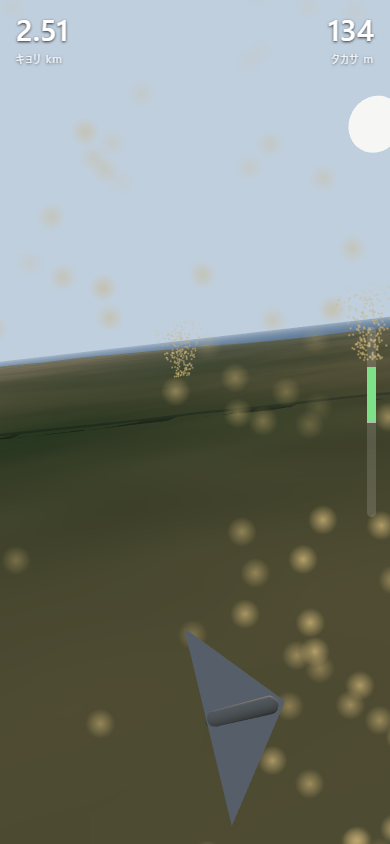
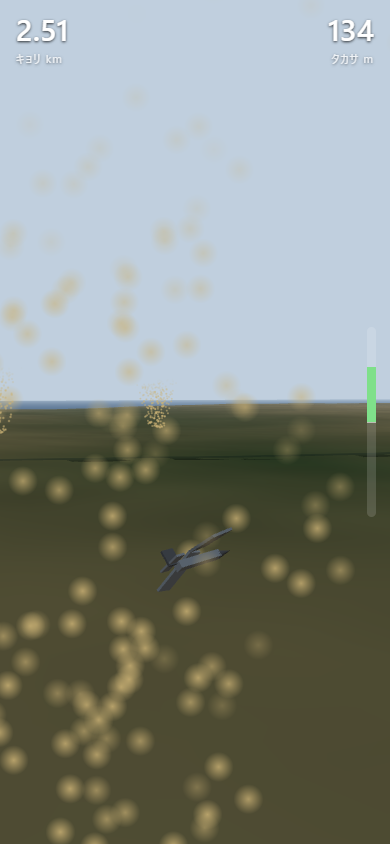
カメラをスタート画面で選べるようにし、「少し傾く」を半分の傾きにした
所長の試走: 水平キープ・見下ろしは酔わない / 少し傾く(14度)は酔うがクセは面白い。

- 少し傾く: roll 0.3 -> 0.15。地平線の傾き 14 -> 7度、傾く速さ 17 -> 9度/秒
- スタート画面に「水平キープ / 見下ろし / 少し傾く」。選んだものは次回も使う(URLの ?cam= が優先)
- 調整用に ?roll= で傾きの強さだけ上書きできる
- tools/check-cam-picker.mjs: スマホの本物のタッチで、選択・記憶・URL優先・開始まで確認

diff --git a/src/main.js b/src/main.js
@@ -6,7 +6,14 @@ import { Vario } from './audio.js';
 const q = new URLSearchParams(location.search);
 const SEED = Number(q.get('seed') ?? Math.floor(Math.random() * 9999));
 const HARNESS = q.has('harness');          // 検査用: rAFを止めて手でコマを進める
-const CAM_KEY = CAMS[q.get('cam')] ? q.get('cam') : 'a';
+const CAM_STORE = 'glide.cam';
+let saved = null;
+try { saved = localStorage.getItem(CAM_STORE); } catch (e) { /* 保存できない環境でも遊べる */ }
+let CAM_KEY = CAMS[q.get('cam')] ? q.get('cam') : (CAMS[saved] && saved !== 'old' ? saved : 'a');
+const camOf = key => {
+  const r = Number(q.get('roll'));                     // 調整用: ?roll=0.2 で傾きの強さだけ上書き
+  return Number.isFinite(r) && q.has('roll') ? { ...CAMS[key], roll: r } : CAMS[key];
+};
 if (CAM_KEY === 'old') { AIR.bankRate = 1.6; AIR.inputTau = 0; }   // 直す前の再現(比較測定用)
 
 const el = id => document.getElementById(id);
@@ -18,8 +25,18 @@ const ui = {
 
 const terrain = new Terrain(SEED);
 const field = new ThermalField(terrain, SEED);
-const view = new View(el('app'), terrain, field, CAMS[CAM_KEY]);
-{ const h = document.querySelector('#start h1'); if (h) h.textContent += '（カメラ: ' + CAMS[CAM_KEY].name + '）'; }
+const view = new View(el('app'), terrain, field, camOf(CAM_KEY));
+
+// スタート画面のカメラ選択。選んだものは次回も使う
+const camButtons = [...document.querySelectorAll('#cams button')];
+function pickCam(key) {
+  CAM_KEY = key;
+  view.setCam(camOf(key));
+  for (const b of camButtons) b.setAttribute('aria-checked', String(b.dataset.cam === key));
+  try { localStorage.setItem(CAM_STORE, key); } catch (e) { /* 覚えられなくても選択自体は効く */ }
+}
+for (const b of camButtons) b.addEventListener('click', () => pickCam(b.dataset.cam));
+for (const b of camButtons) b.setAttribute('aria-checked', String(b.dataset.cam === CAM_KEY));
 const vario = new Vario();
 let glider = new Glider(terrain, field);
 let running = false, ended = false;
@@ -111,6 +128,8 @@ ui.go.addEventListener('click', () => {
 // ---- 検査用の口。画面が出ない環境でもここから回す ----
 window.__slice = {
   seed: SEED,
+  camKey: () => CAM_KEY,
+  camRoll: () => view.cam.roll,
   begin() { ui.start.classList.add('hidden'); running = true; },
   auto(on = true) { auto = on ? new Autopilot() : null; },
   // 実時間を待たずにn秒ぶん進める

diff --git a/index.html b/index.html
@@ -32,6 +32,13 @@
   #start kbd { background:rgba(255,255,255,.14); border-radius:4px; padding:1px 7px; font-size:12px; }
   #start button { margin:6px auto 0; padding:13px 40px; font-size:15px; border:0; border-radius:999px;
                   background:#e8eef7; color:#10151d; font-weight:650; }
+  #cams { display:flex; gap:8px; justify-content:center; flex-wrap:wrap; }
+  #start #cams button { margin:0; padding:10px 16px; font-size:13px; font-weight:600;
+                        background:rgba(255,255,255,.1); color:#e8eef7; border:1px solid rgba(255,255,255,.22); }
+  /* 選択中は「はじめる」と見分けがつくよう、塗らずに枠と印で示す */
+  #start #cams button[aria-checked="true"] { background:rgba(127,224,138,.16); color:#fff; border-color:#7fe08a; }
+  #start #cams button[aria-checked="true"]::before { content:"✓ "; color:#7fe08a; }
+  #start p.note { font-size:11px; opacity:.6; margin-top:-6px; }
   .hidden { display:none !important; }
 </style>
 </head>
@@ -55,6 +62,12 @@
       右の帯と音が上がっていれば、上昇気流の芯に近い。<br>
       日が傾くと空気は上がらなくなります。降りたところが記録。
     </p>
+    <div id="cams" role="radiogroup" aria-label="カメラ">
+      <button type="button" data-cam="a" role="radio">水平キープ</button>
+      <button type="button" data-cam="c" role="radio">見下ろし</button>
+      <button type="button" data-cam="b" role="radio">少し傾く</button>
+    </div>
+    <p class="note">画面酔いしやすい人は「水平キープ」か「見下ろし」</p>
     <button id="go">はじめる</button>
   </div>
   <script type="module" src="/src/main.js"></script>

diff --git a/src/scene.js b/src/scene.js
@@ -10,7 +10,7 @@ const SX = -1;
 //   look:    注視点の高さ(機体からの差)。負だと見下ろす
 export const CAMS = {
   a:   { name: '水平キープ',   back: 120, up: 34, ahead: 360, look: 4,   roll: 0.0,  yawTau: 0.6, fov: 70 },
-  b:   { name: '少しだけ傾く', back: 120, up: 34, ahead: 360, look: 4,   roll: 0.3,  yawTau: 0.6, fov: 70 },
+  b:   { name: '少しだけ傾く', back: 120, up: 34, ahead: 360, look: 4,   roll: 0.15, yawTau: 0.6, fov: 70 },  // 0.3(14度)は酔った
   c:   { name: '見下ろし',     back: 120, up: 95, ahead: 200, look: -60, roll: 0.0,  yawTau: 0.6, fov: 66 },
   // 比較用: 直す前の版(カメラが逆向きに0.75傾く)。選択肢には出さない
   old: { name: '直す前',       back: 105, up: 28, ahead: 320, look: 7,   roll: -0.75, yawTau: 0.75, fov: 62 },
@@ -252,6 +252,11 @@ export class View {
     this.camHead = null;      // 機体の向きに遅れて追従する。旋回を「見える」ようにするため
     this.resize();
     addEventListener('resize', () => this.resize());
+  }
+  setCam(cam) {
+    this.cam = cam;
+    this.camera.fov = cam.fov;
+    this.camera.updateProjectionMatrix();
   }
   resize() {
     const w = innerWidth, h = innerHeight;
